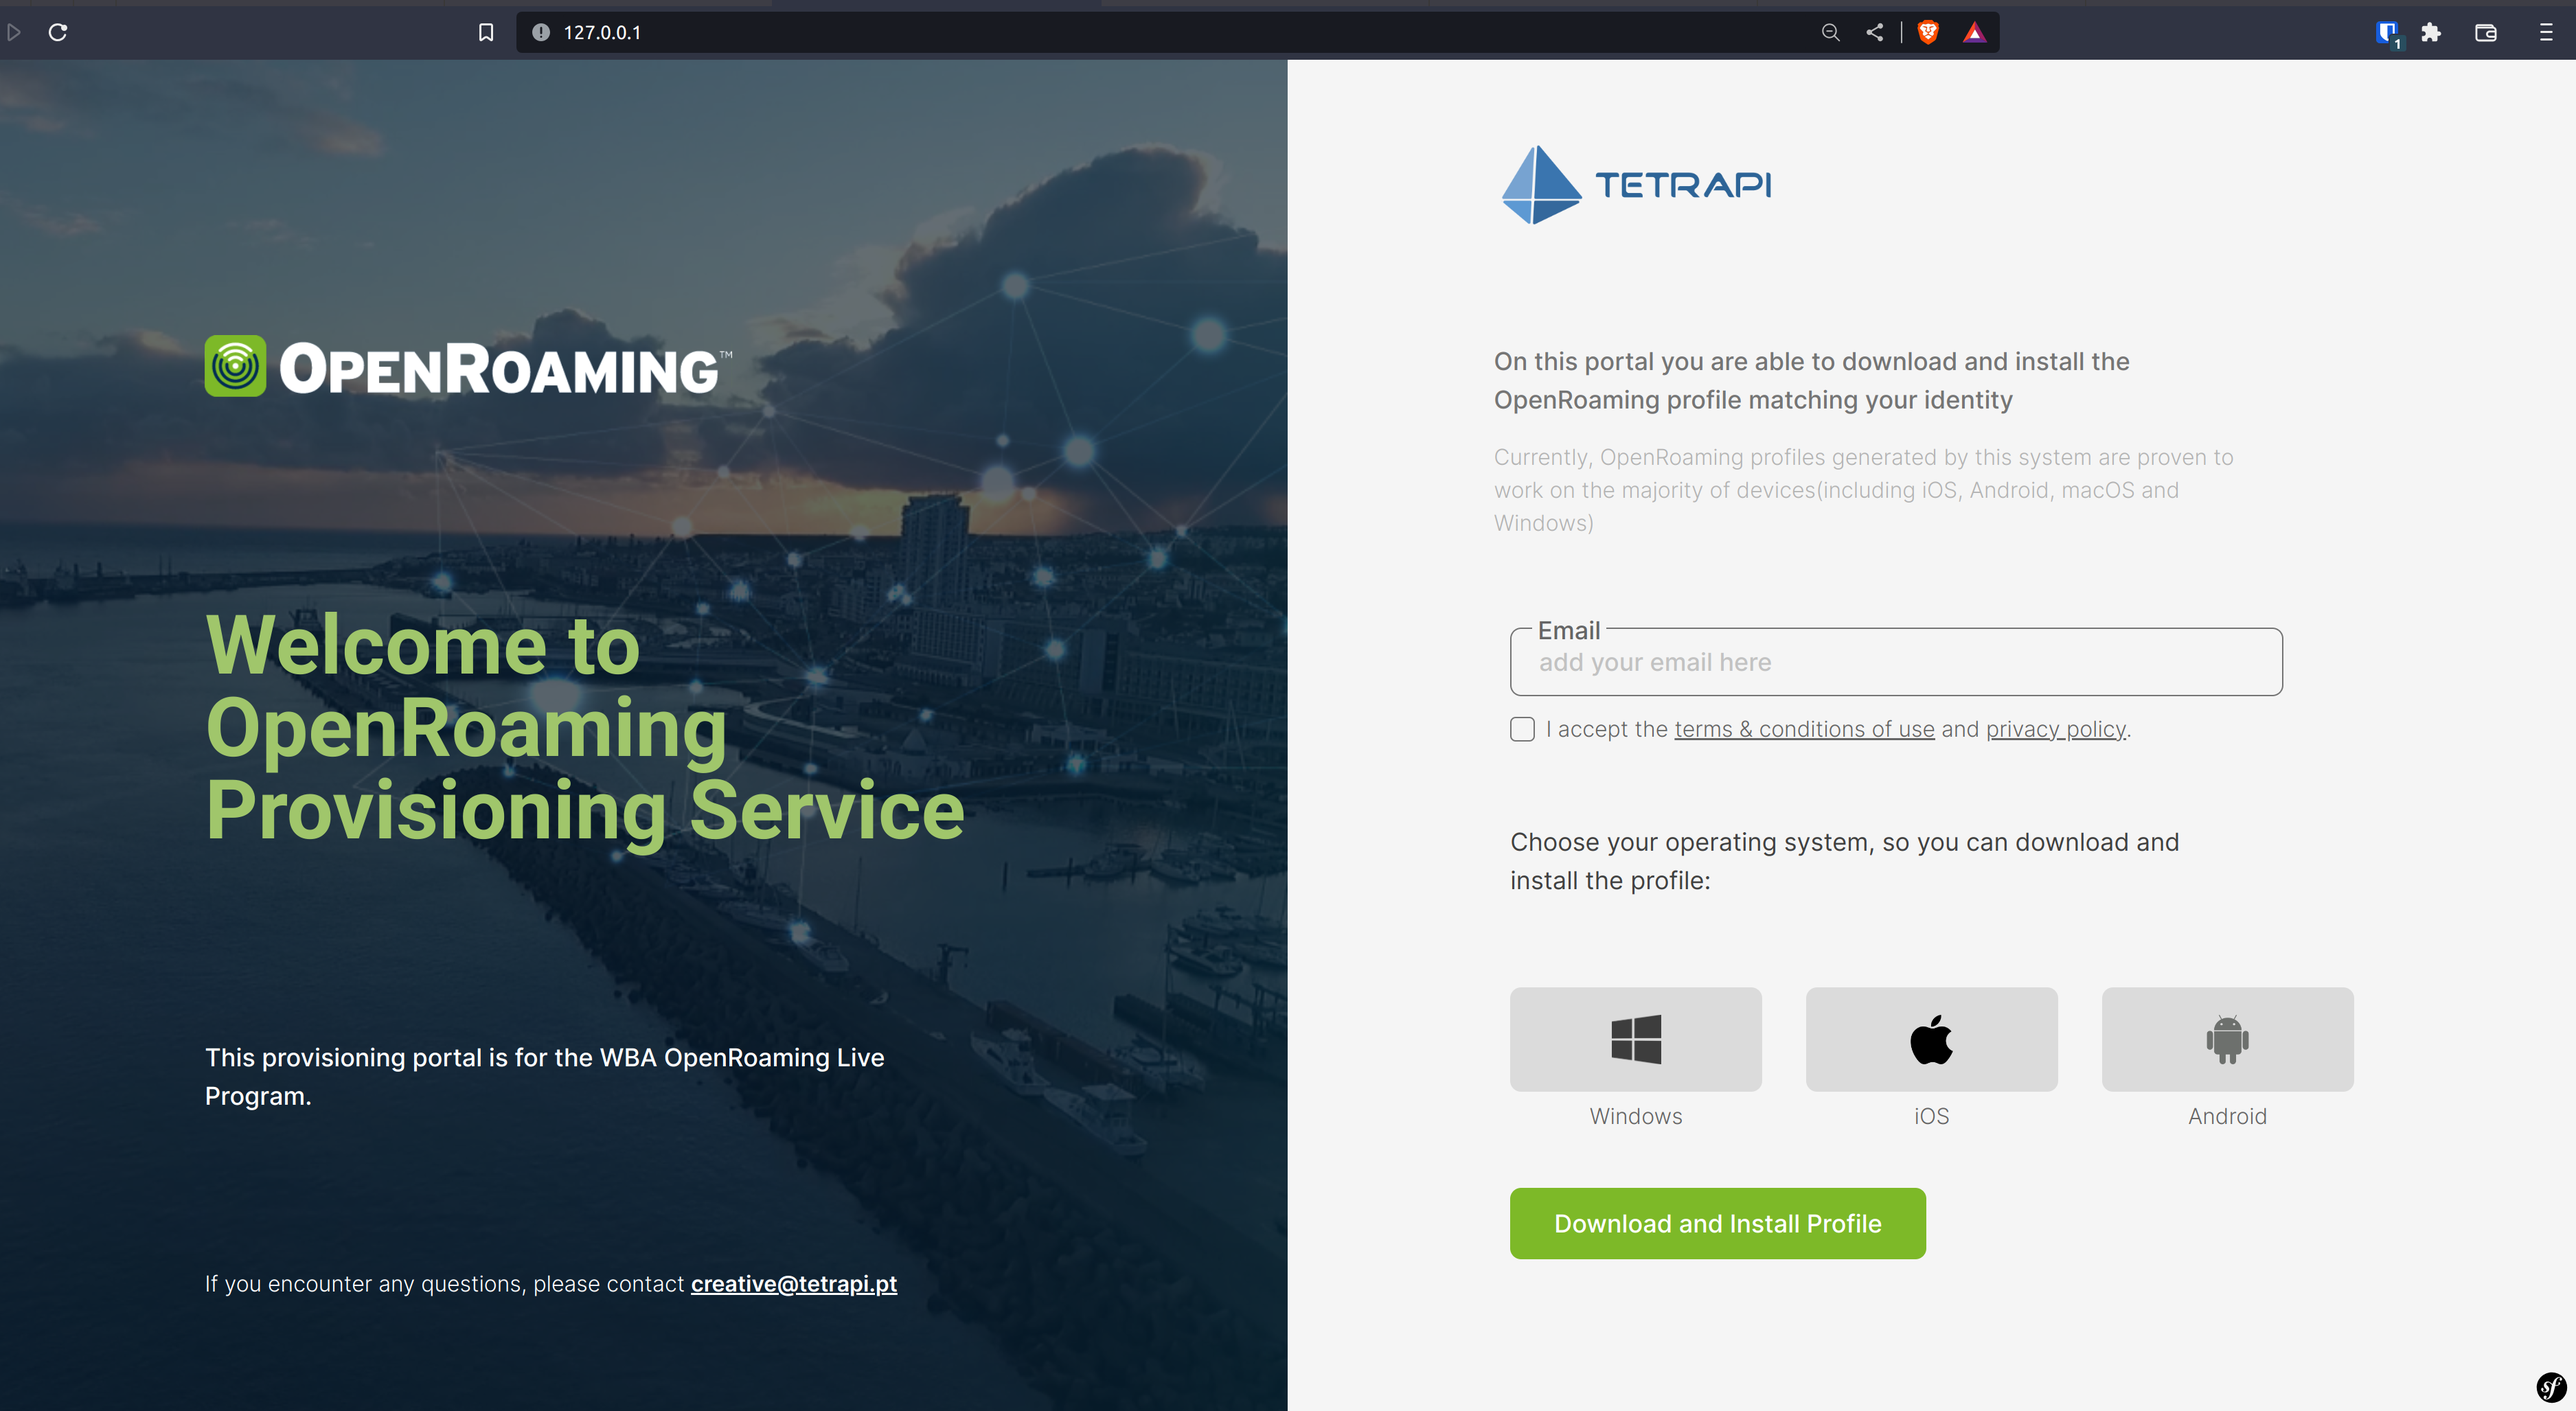
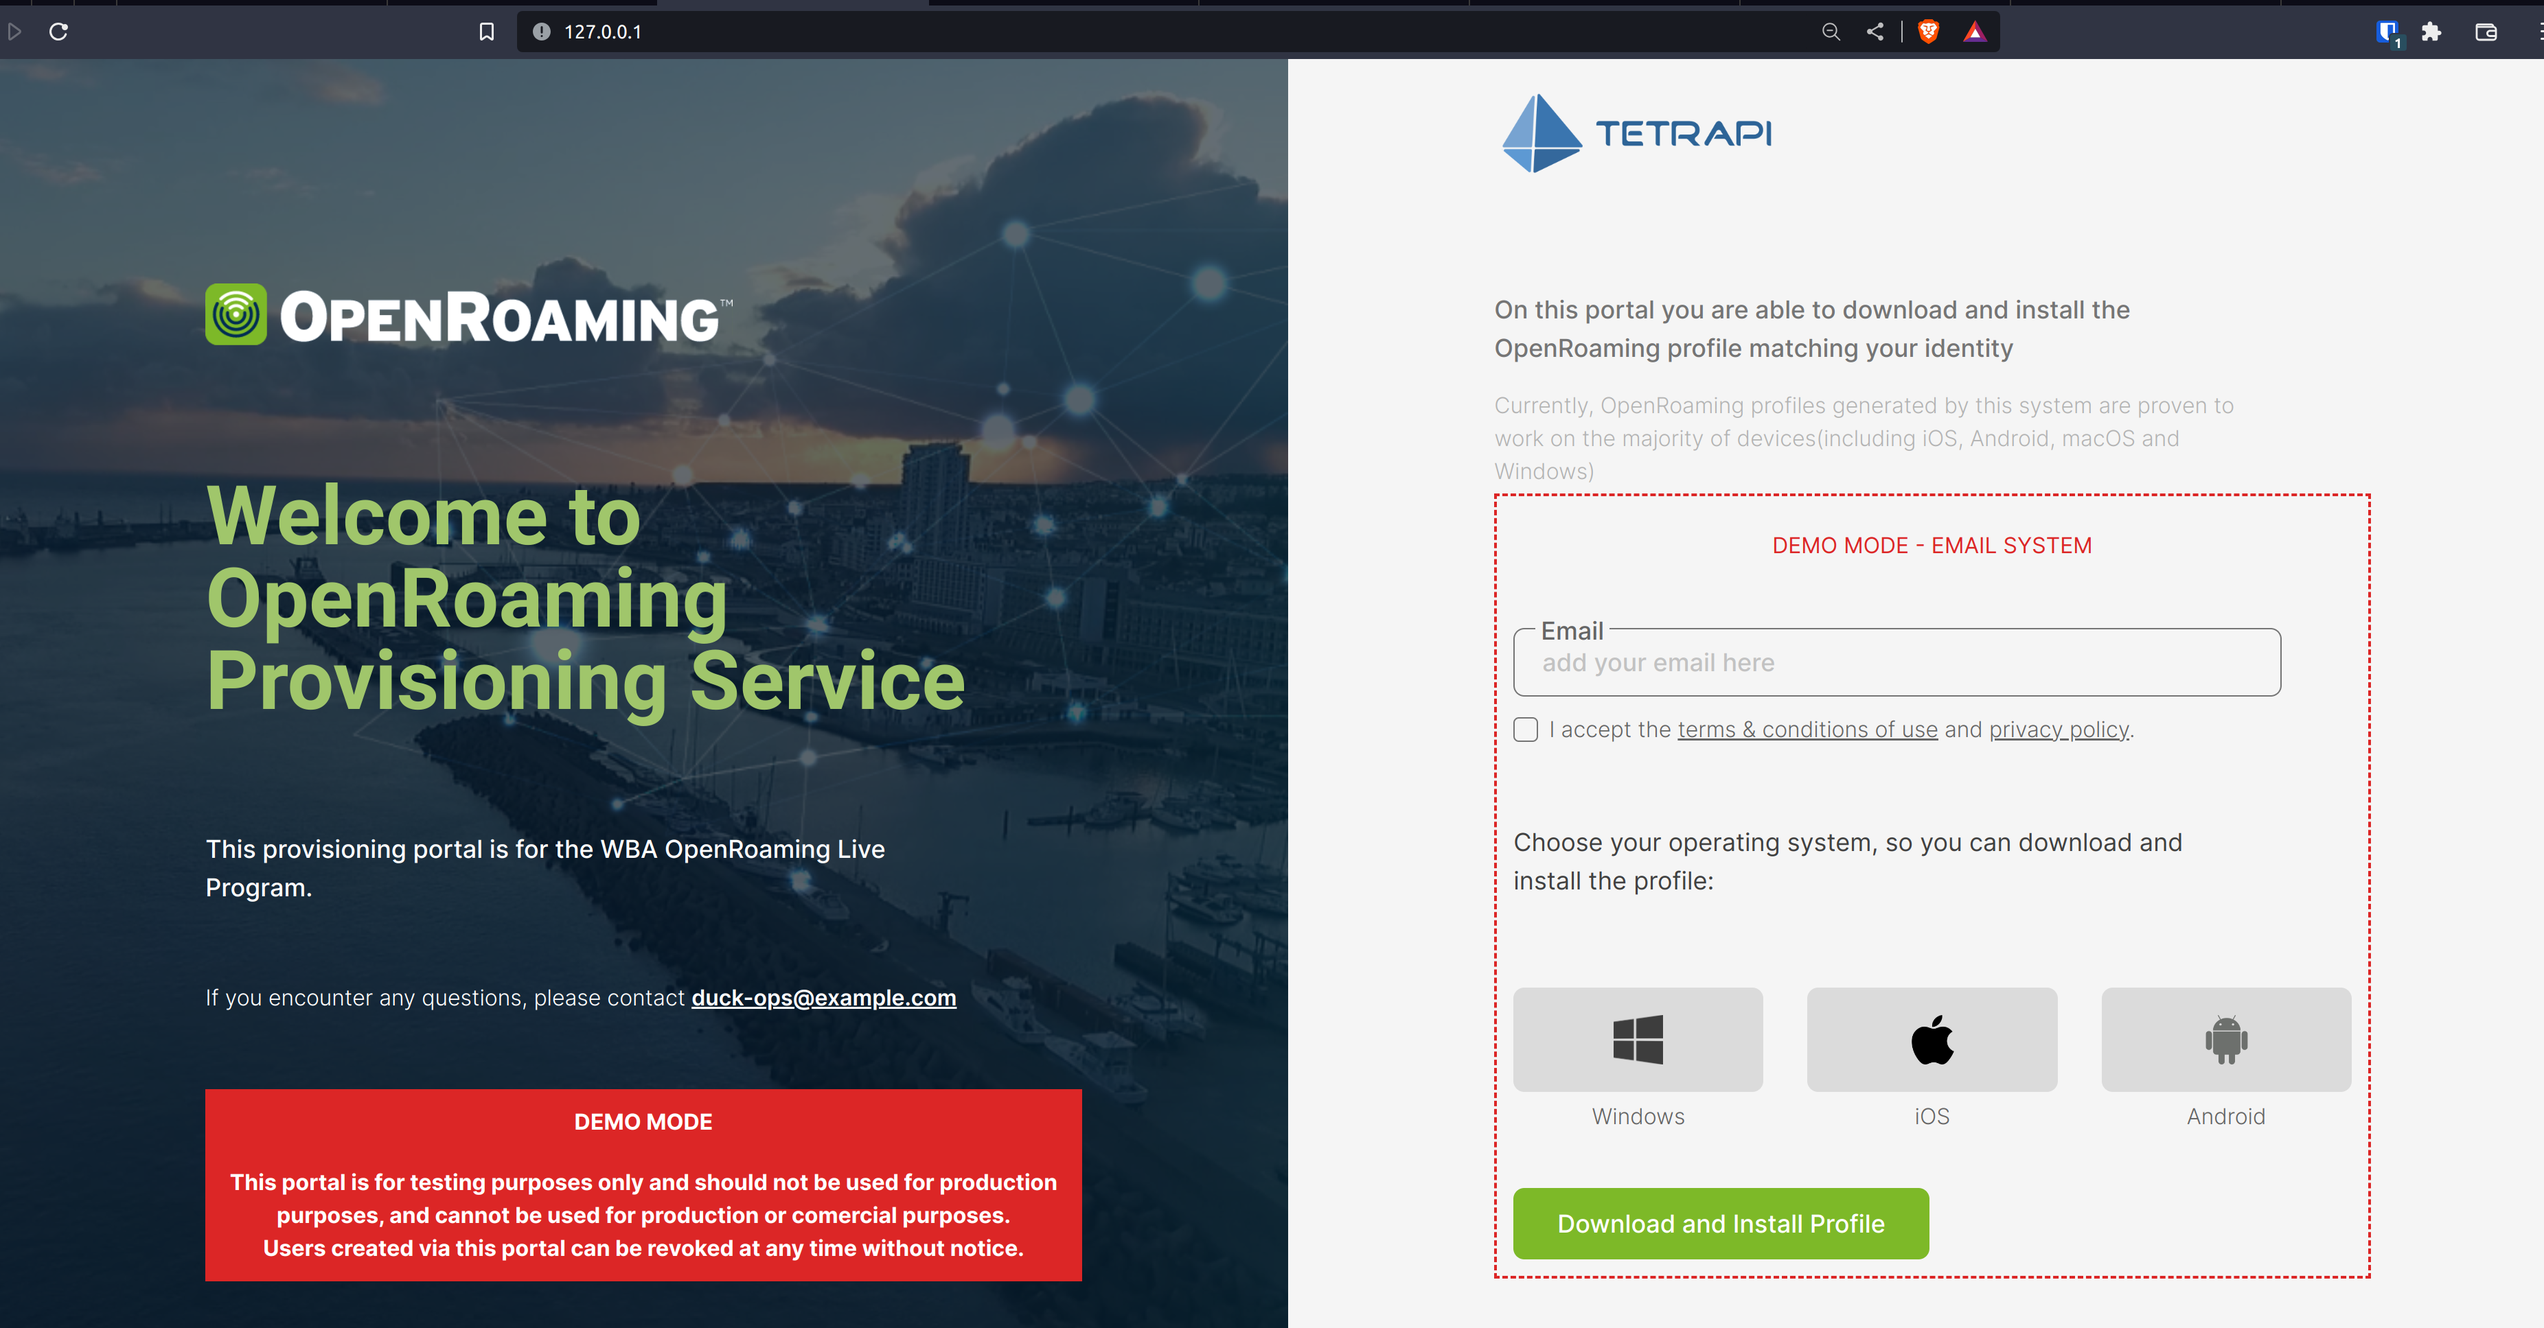
README landing page
Main page overview
Verification
After Verification
Diferencess between prod mode and demo mode
Last Stage - Download Profile
Taking screenshots

diff --git a/README.md b/README.md
@@ -148,7 +148,7 @@ Please don't hesitate to reach out to us for any assistance you may need. We are
 # How it Looks and How it Works?
 Now we will show how the project looks, and give you some base information about how it works.
 
-## Project Mode
+## Production Mode && Demo Mode
 
 The project provides two modes: demo mode set to **TRUE** or **FALSE**, each serving to different needs.
 
@@ -215,9 +215,49 @@ The OpenRoaming Provisioning Portal has a detailed "setting" table that allows y
 
 #### With these environment variables, you can configure and customize various aspects of the project, such as database connections, SAML settings, login methods, and more.
 
-### 1. Main Page Overview
+## How the Platform Works
+
+### 1. Main Page Overview - Demo Mode - False
 ![Main_Page_Demo_False](assets/wba_screenshots/main_page_demo_false.png)
 
-The main page of the OpenRoaming Provisioning Portal provides an intuitive user interface with...
+The main page in production mode (demo mode set to **FALSE**) provides a user-friendly interface for users with individual accounts. The page welcomes visitors with a customisable banner that includes the company logo, welcome text, and a brief summary of the portal's features.
 
+Depending on the settings made by the administrator, users can log in using multiple authentication methods such as SAML, Google, and Register authentication. The main page provides a smooth and customized experience, allowing users to safely and quickly connect to Wi-Fi networks.
 
+### 1.2 Main Page Overview - Demo Mode - True
+![Main_Page_Demo_True](assets/wba_screenshots/main_page_demo_true.png)
+
+The main page in demo mode (demo mode set to **TRUE**) displays the platform's possibilities for users who want to browse the portal without creating individual accounts. The demo mode displays only the option for "demo login" on the page, providing a simplified appearance. To show the portal's key functions, SAML and other login methods are disabled, allowing users to explore the system's functionalities using a demo profile built based on the given email.
+
+Users are informed via a demo warning that the system is now in demo mode.
+
+### 2. Verification Step
+![Verification_Step](assets/wba_screenshots/verification_step.png)
+
+The platform begins the verification procedure to validate the user after registration or when in demo mode. The verification system sends an email to the user's provided email address. This email contains an unique verification link and code that the user must click in order to complete the verification procedure.
+
+The verification phase is a critical security defend that validates the user's identity and makes sure their email address is valid. The user validates ownership of the email account and shows permission to use the OpenRoaming Provisioning Portal by clicking the verification link or by submiting the code given on the email. This procedure improves the platform's security by preventing unwanted access.
+
+### 3. After Verification
+
+![After_Verification](assets/wba_screenshots/after_verification.png)
+
+After successfully completing the verification process by clicking the verification link or submitting the verification code, the user will be directed to this page. The actions taken during the verification process depend on the mode in which the user created their account.
+
+#### 3.1 Production Mode
+
+If the user created an account in production mode (demo mode set to **FALSE**), they will receive an email with essential account information. The email includes a link to return to the verified portal, a verification code, and a randomly generated password. With this information, the user can log in securely to the OpenRoaming Provisioning Portal.
+
+#### 3.2 Demo Mode
+
+Users who registered an account in demo mode (demo mode set to TRUE) can access the verified portal instantly. Because demo mode allows users to explore the site without registering individual accounts, the verification procedure makes sure that the user's session is safe. Based on the submitted email, the system creates a demo profile that grants access to the portal's features while keeping user data secure.
+
+### 4. Download Profile
+
+At the final stage of the process, users have the option to download a profile customized for their specific operating system. The OpenRoaming Provisioning Portal has intelligent auto-detection that identifies the type of device being used.
+
+When the user clicks the "Download" button, the portal generates a profile with information based on the user's account information. This profile is designed to improve the Wi-Fi experience by providing smooth connectivity and increased security.
+
+The downloaded profile includes all of the essential settings and variables to make connecting to Wi-Fi networks easier. The OpenRoaming Provisioning Portal improves Wi-Fi connectivity by giving a user-specific profile, making it easier and more convenient for consumers and companies.
+
+With this final step, users can effortlessly connect to Wi-Fi networks in various contexts, whether it's in public hotspots, corporate networks, or events and conferences, experiencing the full benefits of the OpenRoaming Provisioning Portal. Say goodbye to manual login problems and enjoy a seamless, secure, and personalized Wi-Fi experience! 📶🔒🌐
